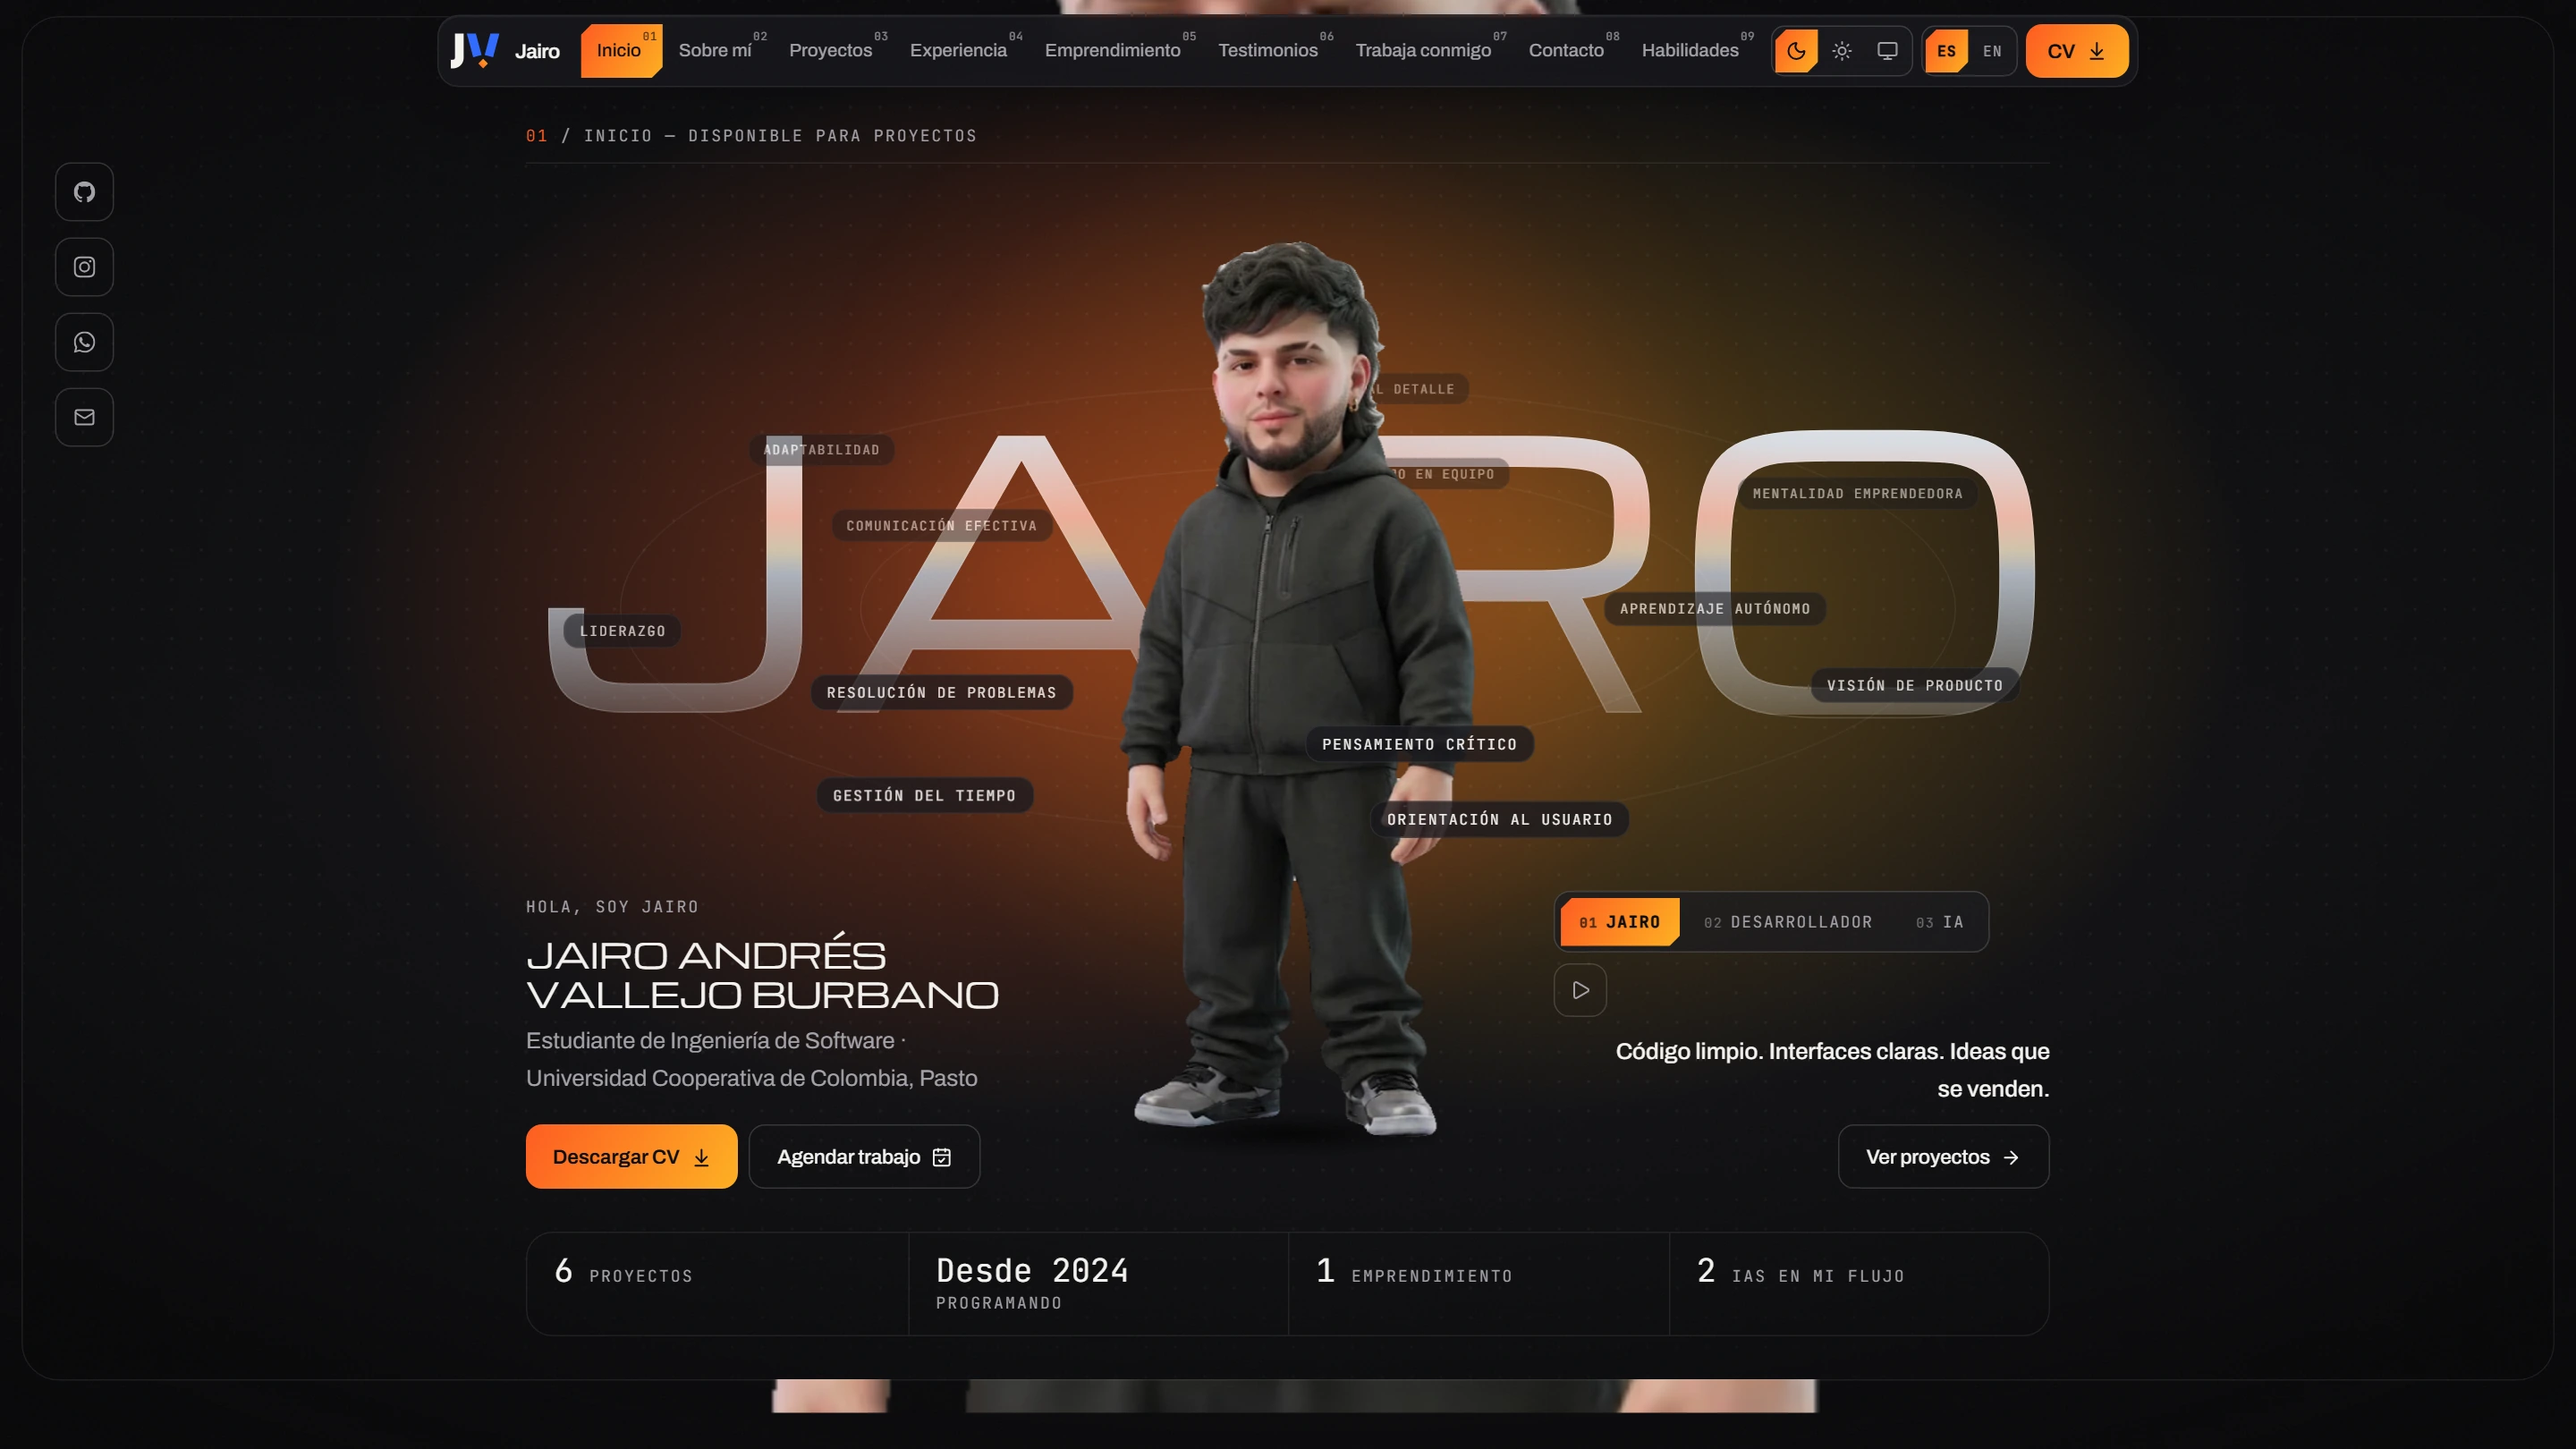
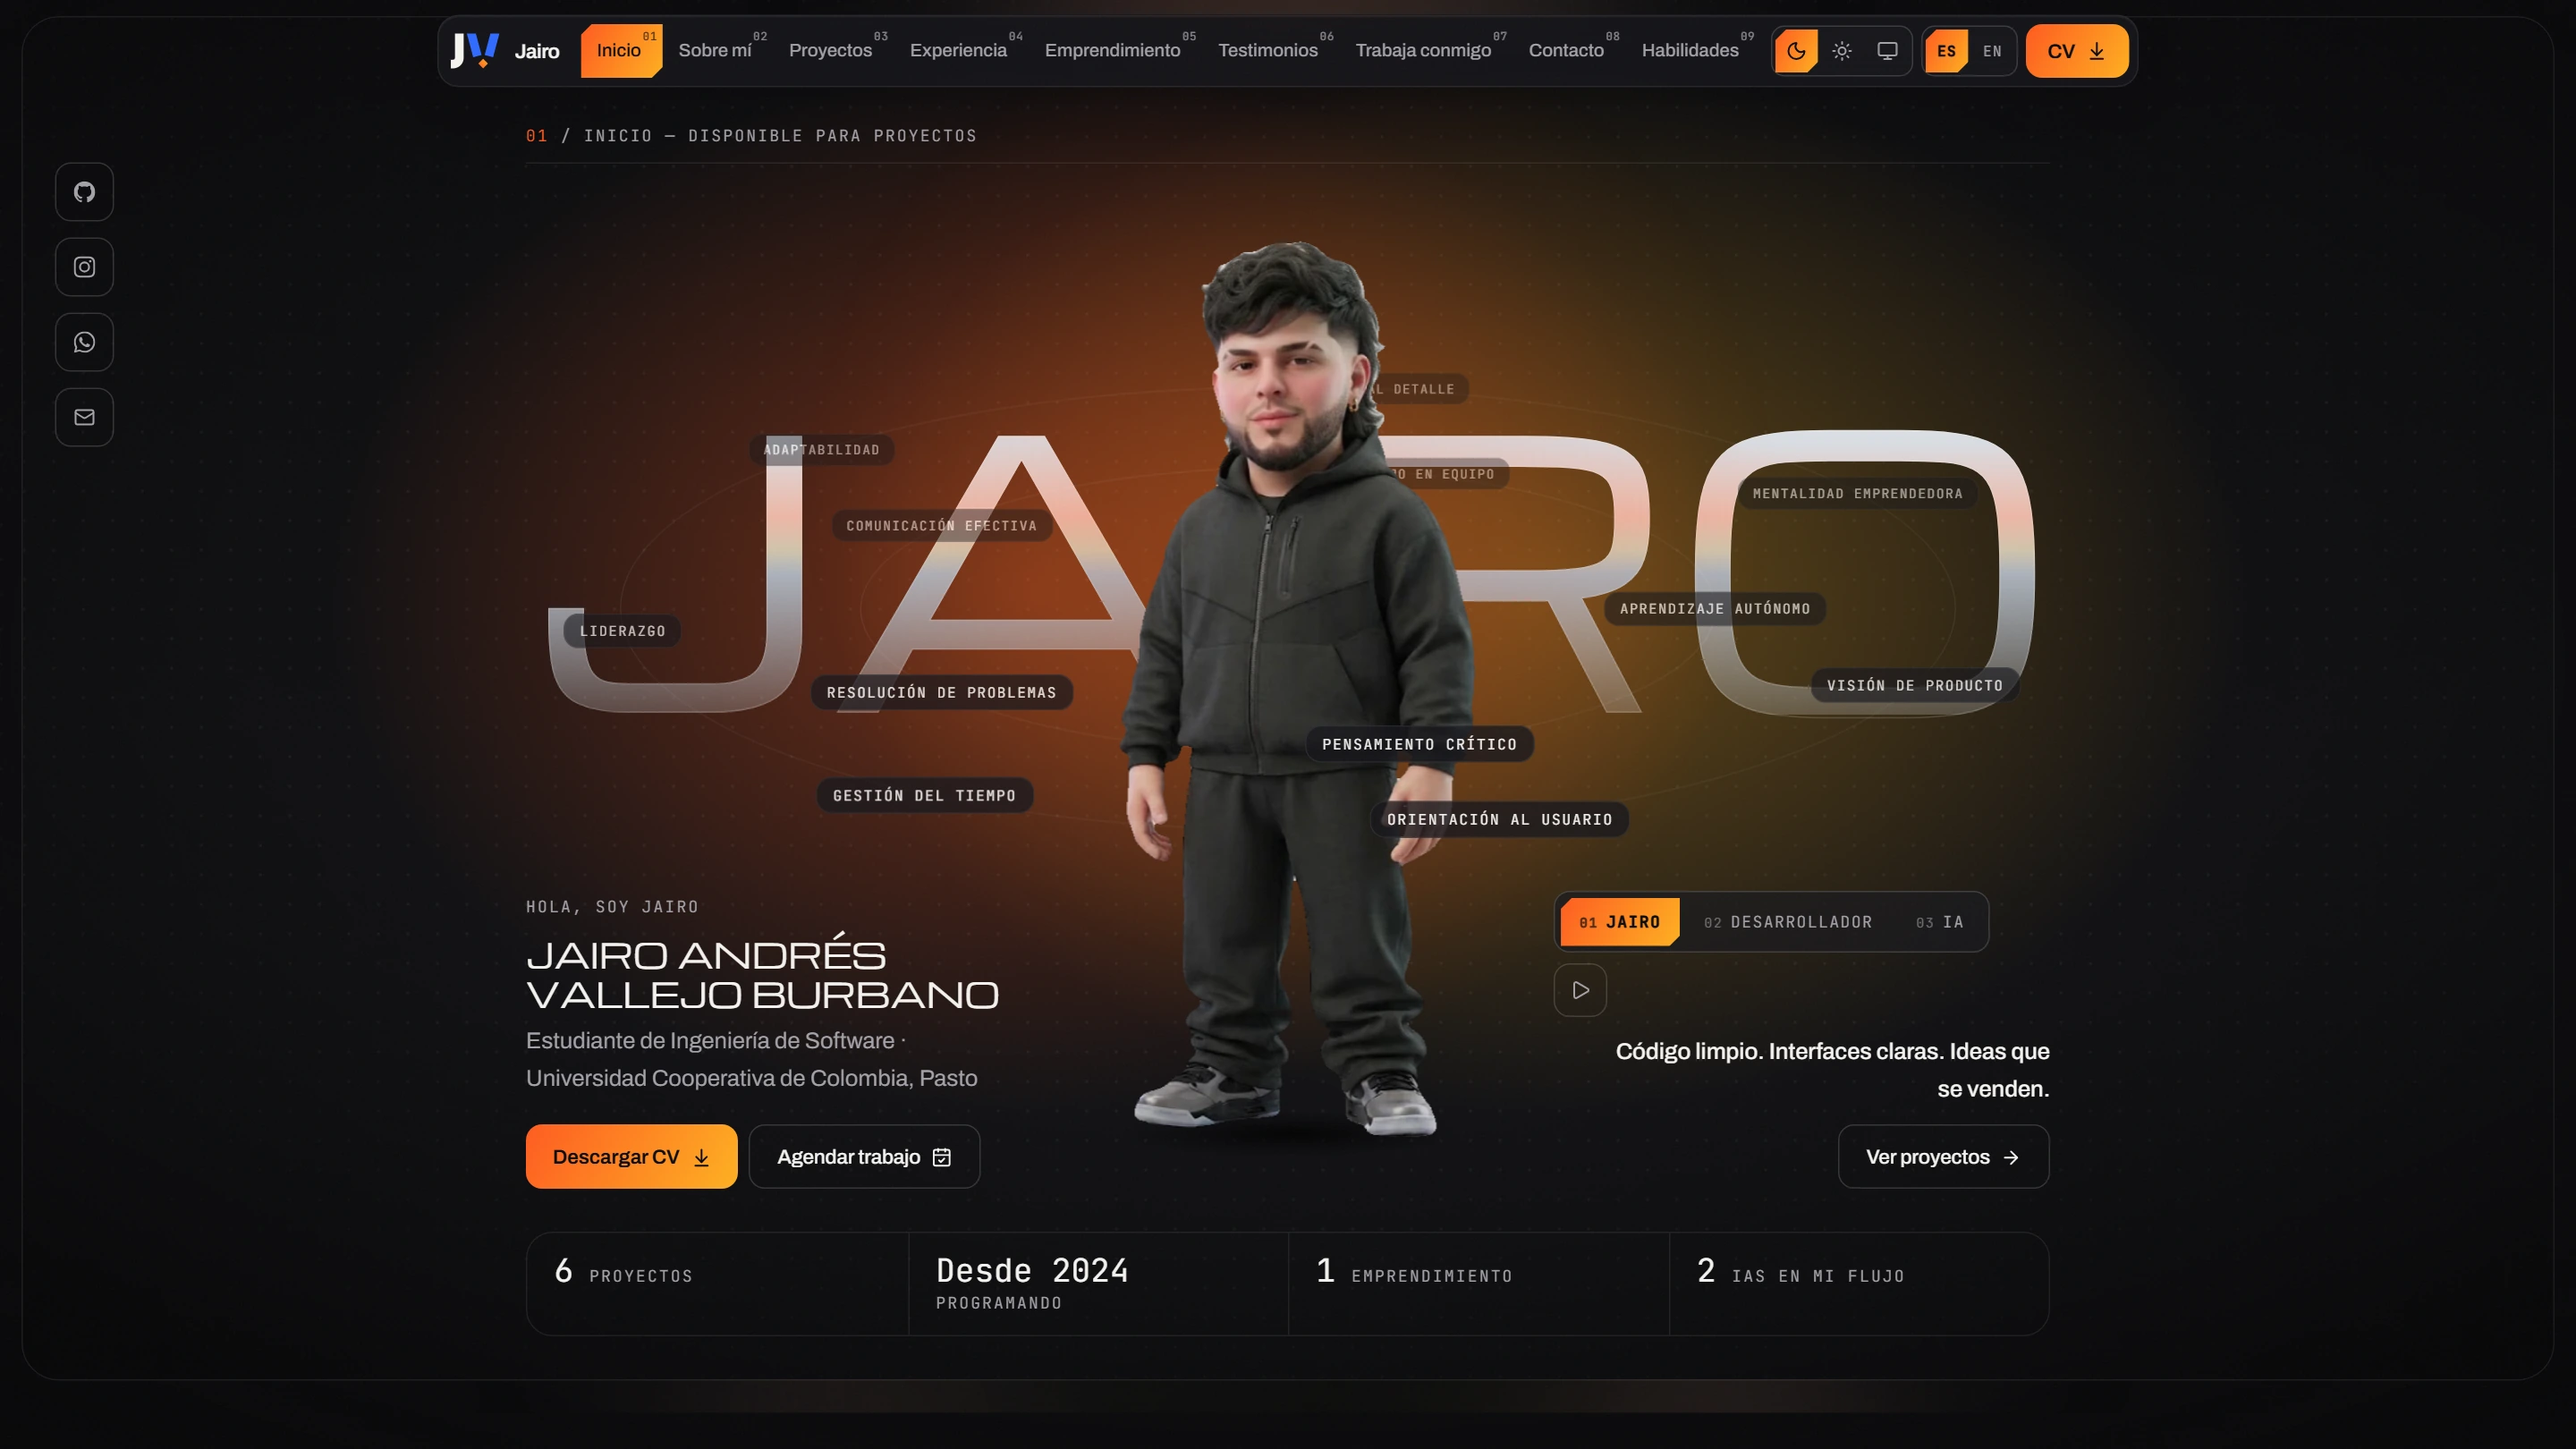
fix(qa): pruebas en 7 tamaños con CPU x4 y corrección de lo que fallaba
Probado con Playwright en 360x640, 390x844, 768x1024, 1024x768, 1366x768,
1440x900 y 1920x1080 (CPU x4): intro, hero, las 10 secciones, pestañas,
tema claro/oscuro, ES/EN, rueda de lenguajes, formularios y logo.
Corregido:
- Luz ambiental del hero en tema oscuro: el token se referenciaba a sí mismo
  (desde la Fase 2) y la foto ampliada salía nítida alrededor de la tarjeta
  (muy visible a 1920). Vuelve a blur(40px) brightness(0.35).
- CLS al cargar: el menú decidía por JS (al hidratar) si mostraba todas las
  secciones o «Más» y la cápsula cambiaba de ancho; ahora lo decide CSS
  (>= 1400 px). Las líneas de órbita no se pintan hasta estar ubicadas.
  CLS de carga: 0 en todos los tamaños.
- Proyectos: las descripciones se cortaban a 2 líneas (sin forma de leerlas
  en celular); ahora se ven completas.
- Contacto: el correo se truncaba en celular; bajo 400 px «Copiar» queda solo
  con ícono (con nombre accesible) y el correo puede partirse.
- Experiencia (1024-1279 px): el filtro se metía bajo el nodo de la línea de
  tiempo y tapaba «Laboral».
- Rueda de lenguajes: la pausa al pasar el mouse solo aplica con mouse (en
  táctil el hover quedaba pegado y la rueda se detenía).
- Capturas de la intro regeneradas con la luz ambiental corregida.

diff --git a/components/Navbar.tsx b/components/Navbar.tsx
@@ -14,7 +14,6 @@ import { EASE, useMediaQuery, usePlateMotion } from "@/lib/effects";
 import { cn } from "@/lib/cn";
 
 const ids = sections.map((s) => s.id);
-const primary = sections.filter((s) => s.primary);
 const secondary = sections.filter((s) => !s.primary);
 
 /** Sección activa = la última cuyo borde superior pasó el 40 % de la ventana. */
@@ -173,14 +172,14 @@ export default function Navbar() {
             </a>
 
             <ul className="isolate hidden items-center lg:flex">
-              {(wide ? sections : primary).map((s) => (
-                <li key={s.id}>
-                  <NavLink id={s.id} label={tx(s.label, lang)} active={active === s.id} />
+              {/* Todas las secciones se dibujan siempre y el ancho lo decide CSS (≥ 1400 px: todas; menos: los
+                  secundarios van en «Más»). Antes lo decidía JS al hidratar y la cápsula saltaba de ancho (CLS). */}
+              {sections.map((s) => (
+                <li key={s.id} className={s.primary ? undefined : "hidden min-[1400px]:block"}>
+                  <NavLink id={s.id} label={tx(s.label, lang)} active={active === s.id && (s.primary || wide)} />
                 </li>
               ))}
-              {/* En pantallas medianas, los secundarios van en «Más» */}
-              {!wide && (
-              <li className="relative">
+              <li className="relative min-[1400px]:hidden">
                 <div ref={moreRef}>
                   <button
                     type="button"
@@ -232,7 +231,6 @@ export default function Navbar() {
                   </AnimatePresence>
                 </div>
               </li>
-              )}
             </ul>
 
             <div className="flex shrink-0 items-center gap-1.5">

diff --git a/app/globals.css b/app/globals.css
@@ -114,7 +114,7 @@
   --metal-stroke: rgb(255 255 255 / 0.16);
   --acute: linear-gradient(180deg, #f7f7f8, #d9dde3);
   --contact: radial-gradient(closest-side, rgb(0 0 0 / 0.85), rgb(0 0 0 / 0.35) 55%, transparent);
-  --ambient-filter: var(--ambient-filter);
+  --ambient-filter: blur(40px) brightness(0.35);
   /* Capa revelada por la mancha: el tema contrario (claro sobre el oscuro y viceversa) */
   --inv-bg: #f7f5f0;
   --inv-text: #0b0b0d;
@@ -909,7 +909,8 @@ main > section:not(#inicio):nth-of-type(odd) {
 .logo-ring-stage { --ring-r: clamp(220px, 34vw, 280px); }
 @keyframes ring-spin { to { transform: rotateY(360deg); } }
 .logo-ring { transform-style: preserve-3d; animation: ring-spin 40s linear infinite; }
-.logo-ring-stage:hover .logo-ring { animation-play-state: paused; }
+/* pausa al pasar el mouse (solo con mouse: en táctil el :hover queda pegado tras tocar y la rueda se detenía) */
+@media (hover: hover) and (pointer: fine) { .logo-ring-stage:hover .logo-ring { animation-play-state: paused; } }
 .logo-ring-item { box-shadow: var(--shadow); }
 :root[data-effects="reduced"] .logo-ring { animation: none; }
 @media (prefers-reduced-motion: reduce) { .logo-ring { animation: none; } }
@@ -928,6 +929,8 @@ body, section, footer, .glass, .btn, .chip, .field, .nav-capsule {
   border-radius: 50%;
   pointer-events: none;
 }
+/* hasta que HeroOrbit la mide y la ubica (estilo en línea), no se pinta: sin salto de diseño (CLS) */
+.orbit-line:not([style*="width"]) { visibility: hidden; }
 .orbit-label {
   position: absolute;
   left: 0;

diff --git a/components/Contact.tsx b/components/Contact.tsx
@@ -143,7 +143,7 @@ export default function Contact() {
                         href={s.href}
                         target={isMail ? undefined : "_blank"}
                         rel={isMail ? undefined : "noopener noreferrer"}
-                        className="block truncate text-body underline-offset-4 hover:underline"
+                        className="block text-body underline-offset-4 [overflow-wrap:anywhere] hover:underline"
                       >
                         {s.handle}
                         {!isMail && <span className="sr-only"> {dict.common.newTab}</span>}
@@ -156,7 +156,7 @@ export default function Contact() {
                         className="btn btn-secondary btn-sm shrink-0"
                         aria-label={t.copyEmail}
                       >
-                        <Copy aria-hidden="true" /> {t.copy}
+                        <Copy aria-hidden="true" /> <span className="max-[400px]:sr-only">{t.copy}</span>
                       </button>
                     ) : (
                       <a href={s.href} target="_blank" rel="noopener noreferrer" className="btn btn-secondary btn-sm shrink-0" aria-label={fmt(t.openAria, { label })}>

diff --git a/components/Experience.tsx b/components/Experience.tsx
@@ -56,7 +56,7 @@ export default function Experience() {
                       aria-checked={on}
                       onClick={() => setFilter(o.id)}
                       className={cn(
-                        "relative min-h-11 rounded-full px-4 text-small transition-colors",
+                        "relative min-h-11 rounded-full px-4 text-small transition-colors lg:max-xl:px-3",
                         on ? "font-medium text-[var(--btn-fg)]" : "text-muted hover:text-ink",
                       )}
                     >

diff --git a/components/Projects.tsx b/components/Projects.tsx
@@ -72,10 +72,7 @@ function ProjectCard({ project, index }: { project: Project; index: number }) {
             {title}
           </h3>
         </div>
-        <p
-          className="line-clamp-2 min-h-[3.25em] text-pretty text-body text-muted"
-          title={description}
-        >
+        <p className="min-h-[3.25em] text-pretty text-body text-muted">
           {description}
         </p>
         <ul className="flex flex-wrap gap-1.5" aria-label={t.projects.techs}>

diff --git a/CLAUDE.md b/CLAUDE.md
@@ -17,7 +17,7 @@ Entrega del curso "Diseño de Interfaces" (UCC). Límite: 8 nov 2026. Se calific
 - Base negra común: `--bg #0B0B0D · --bg-2 #111114 · --surface #17171C · --surface-2 #1F1F26 · --border rgba(255,255,255,.08) · --text #F5F3F0 · --muted #A3A1A8`. Marca: `--fire-a #FF5A1F → --fire-b #FFB020`, `--steel #2F6BFF`, `--red #E5383B` (Tailwind `fire-a`, `fire-b`, `steel`, `red`).
 - Por modo (variables `@property`, 600 ms): `--accent`/`--accent-2` (dominante: resplandor del Hero, palabra gigante, indicador), `--accent-text` (texto, `text-accent`), `--detail` (`text-detail`), `--btn-a`/`--btn-b`/`--btn-fg` (botón primario y píldoras; usar `text-[var(--btn-fg)]`). Jairo: fuego + detalles azul · Desarrollador: azul + detalles naranja · IA: duotono rojo/azul + detalles ámbar. Contraste AA ≥ 5 en todo. Números de sección alternan dominante/detalle.
 - El modo SOLO cambia cuando el usuario pulsa Jairo / Desarrollador / IA (sin ciclo automático); `chooseMode` lo guarda en localStorage (`MODE_KEY`) y el script de arranque lo aplica antes del primer pintado.
-- Intro (Fase 5): solo 3D (`IntroGate` + `IntroScene`), también en celular (tablet vertical, 30 fps con `frameloop="demand"`, umbrales de `PerformanceMonitor` ajustados a ese tope). Nombre mientras carga: máx. 1.5 s; si la escena no está lista, se entra directo al sitio. Trayectoria: UNA curva Catmull-Rom centrípeta (deriva → de frente → entrada recta) recorrida por longitud de arco con un solo ease (`easeFlight`), 5.2 s escritorio · 4.6 s celular; nunca separar en fases con ease propio (la cámara frenaba a cero entre fases). Giro de la tablet, texturas y transparencia dependen del mismo avance o de la escala real de la pantalla. `#site` lleva `will-change: transform` desde que monta la intro (rasterizado a escala 1: nítido en todo el zoom). Continuidad por elemento compartido: la pantalla tiene la proporción de la ventana, su shader se vuelve transparente (alfa premultiplicado) y deja ver el sitio real (`#site` en el layout), que `IntroGate` escala en cada frame a la misma escala que la pantalla; al llegar a 1 la intro se retira sin fundido. El overlay va en portal a `<body>` (fuera de `#site`). Durante la intro el Hero no anima (`lib/ticker.ts`) hasta `data-intro-handoff`. Esc salta; Enter/Espacio/rueda entran; no se repite en la sesión; sin intro con prefers-reduced-motion. dpr [1,2] y antialias. Texturas: `intro/…/site.webp` (Hero 2880×1800) y `site-scroll.webp` (1800×6600), precargadas con `crossOrigin="anonymous"` (sin eso la precarga no se usa y se descargan dos veces). Regenerar con `npm run intro:texture` y reiniciar `npm start` (archivos nuevos en public/).
+- Intro: solo 3D (`IntroGate` + `IntroScene`), también en celular (tablet vertical, 30 fps con `frameloop="demand"`, umbrales de `PerformanceMonitor` ajustados a ese tope). Nombre mientras carga: máx. 1.5 s; si la escena no está lista, se entra directo al sitio. Texturas y shaders se preparan con el lienzo oculto (`initTexture` + `compileAsync`, tope 0.5 s) y el reloj arranca en un cuadro limpio. **Escritorio** (Fase final, a pedido del usuario): coreografía de la intro anterior a la Fase 5 (`DESK` en IntroScene: deriva orbital −0.42→0.24 rad, radio 8.6→7.0, altura 2.5→1.6; giro de frente + entrada; 4.5 s), con la deriva y la entrada solapadas para que la cámara nunca frene a cero, y llegada al eje frontal en el 70 % de la entrada (luego entrada recta). **Celular**: UNA curva Catmull-Rom centrípeta con un solo ease (`easeFlight`), 4.6 s; no tocar salvo fallo. Todo es función del tiempo (no de los fps). Continuidad por elemento compartido: la pantalla tiene la proporción de la ventana, su shader se vuelve transparente (alfa premultiplicado) y deja ver el sitio real (`#site` en el layout), que `IntroGate` escala en cada frame a la misma escala que la pantalla; al llegar a 1 la intro se retira sin fundido. `#site` lleva `will-change: transform` desde que monta la intro. El overlay va en portal a `<body>`. Durante toda la intro (también el traspaso) el Hero no anima (`lib/ticker.ts`). Esc salta; Enter/Espacio/rueda entran; no se repite en la sesión; sin intro con prefers-reduced-motion. dpr [1,2] y antialias. Texturas: `intro/…/site.webp` (Hero 2880×1800), `site-wide.webp` (Hero 16:9, 2880×1620; `introHeroFile` en lib/keys.ts elige por proporción de ventana), `site-scroll.webp` (1800×6600) y `site-mobile.webp`, precargadas con `crossOrigin="anonymous"`. Regenerar con `npm run intro:texture` (tras cambiar el Hero, el logo o los textos) y reiniciar `npm start`.
 - Pausa global (WCAG 2.2.2): un solo `PauseButton` junto a los chips de modo + `lib/motion.ts`; `<html data-anim="paused">` detiene órbita, avatar, anillo de logos, chispas y robot flotante en su posición actual. Se guarda en localStorage (`PAUSE_KEY`) e inicia en pausa con «Reducir efectos» o prefers-reduced-motion.
 - Primer render: `.hero-in` solo anima transform; la palabra gigante ya sale ajustada al ancho con unidades de contenedor (`NATURAL` en HeroTitle). La Ó de «CÓDIGO» es O + `.hero-acute` (la tilde nativa de Michroma quedaba alta y suelta).
 - Mancha líquida: dentro todo es claro (`.theme-grad`: fondo #F7F5F0, texto #0B0B0D, palabra en metal oscuro, chips/secundarios oscuros, primario con el acento).
